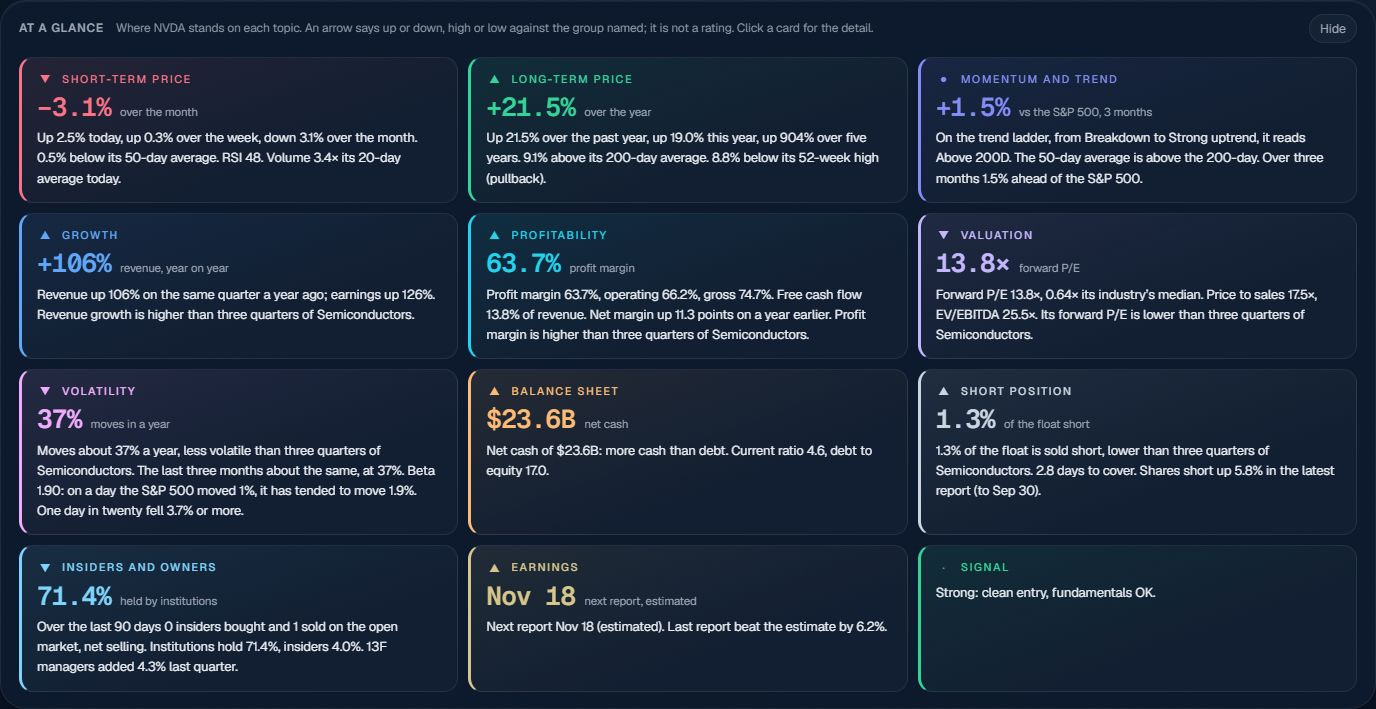
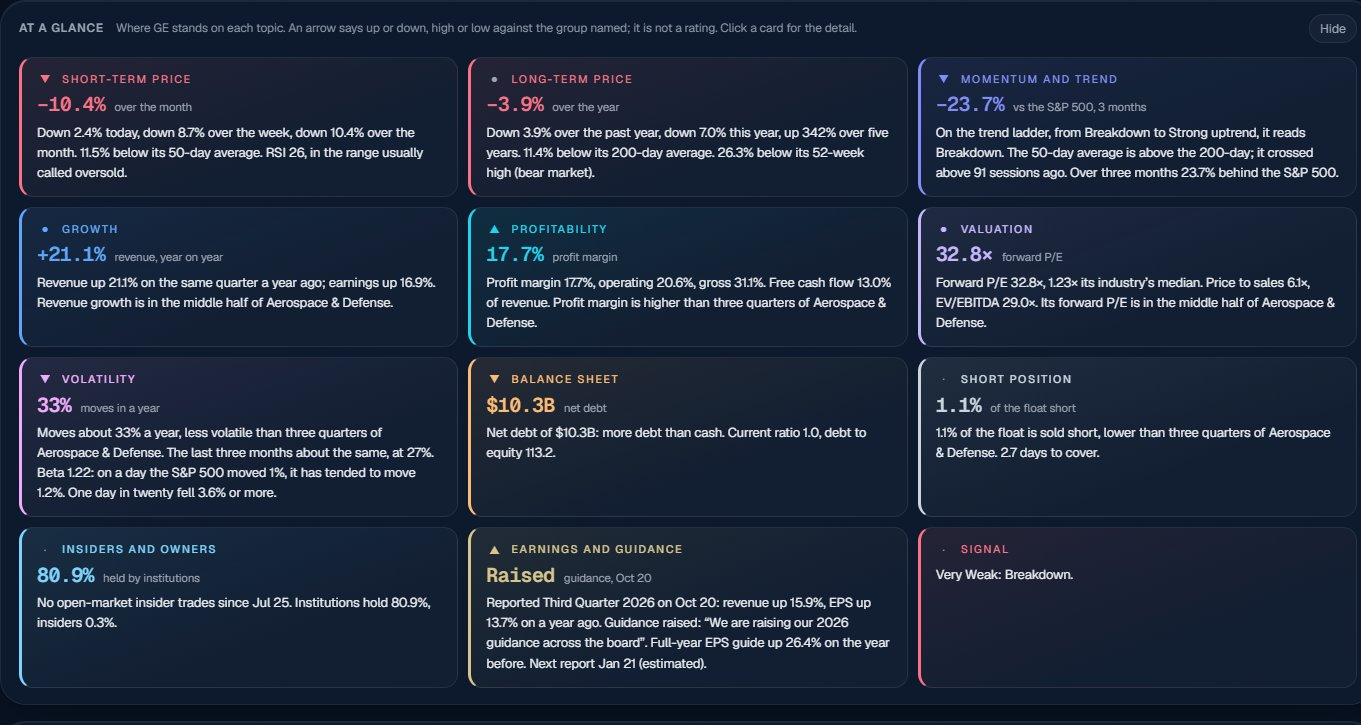
Earnings and guidance on the At a glance promo card and the home page picture

Changed region(s): [[0.0, 0.031, 0.9875, 0.9929], [0.0, 0.0931, 0.3086, 0.3103], [0.9566, 0.031, 0.9875, 0.0621]]

diff --git a/server.js b/server.js
@@ -12813,6 +12813,12 @@ app.get('/api/m/post', requireMember, route(async (req, res) => {
     const sym = String(srNeed.symbol || '').toUpperCase();
     try { srd = /^[A-Z0-9.-]{1,15}$/.test(sym) ? { symbol: sym, releases: (await store.readEarningsReleases(sym, 2)).filter((r) => r.isResults).map((r) => Releases.forReader(r, [])) } : { releases: [] }; } catch { srd = { releases: [] }; }
   }
+  // The At a glance card: its stock's newest release for Earnings and guidance.
+  let glRel = null;
+  if (post.tpl === 'glance') {
+    const gs = String((post.opts && post.opts.glcSym) || (stocks[0] && stocks[0].symbol) || '').toUpperCase();
+    try { const rr = /^[A-Z0-9.-]{1,15}$/.test(gs) ? (await store.readEarningsReleases(gs, 2)).filter((r) => r.isResults)[0] : null; if (rr) glRel = { symbol: gs, fields: globalThis.ReleaseView.fields(Releases.forReader(rr, [])) }; } catch { glRel = null; }
+  }
   // The Results reported card, likewise.
   let rptd = null;
   const rptNeed = Cards.reportedNeed(post.tpl, post.opts || {});
@@ -12845,7 +12851,7 @@ app.get('/api/m/post', requireMember, route(async (req, res) => {
       getReleaseColumn: () => rcol || { rows: {} },
       getRelease: () => srd || { releases: [] },
       // The At a glance card: the stock page's own cards, over the same rows.
-      getGlance: (s) => { try { const r = stocks.find((x) => x && x.symbol === s); return r ? Glance.build(r, stocks) : null; } catch (e) { return null; } },
+      getGlance: (s) => { try { const r = stocks.find((x) => x && x.symbol === s); return r ? Glance.build(glRel && glRel.symbol === s ? Object.assign({}, r, glRel.fields) : r, stocks) : null; } catch (e) { return null; } },
       getGroupLines: () => glines,
       getGroupMonths: () => gmonths,
       getDays: () => days,

diff --git a/private/promo.html b/private/promo.html
@@ -3359,7 +3359,13 @@
     function getGlance(symbol) {
       const row = stocks.find((x) => x && x.symbol === symbol);
       if (!row || typeof Glance === 'undefined') return null;
-      try { return Glance.build(row, stocks); } catch (e) { return null; }
+      // Earnings and guidance (2026-10-23): the newest release's figures on the
+      // row, as /api/stock does for the stock page. getRelease fetches once and
+      // redraws when it lands; until then the card has the old wording.
+      const rd = getRelease({ symbol });
+      const rel = rd && rd.releases && rd.releases[0];
+      const built = rel && window.ReleaseView ? Object.assign({}, row, window.ReleaseView.fields(rel)) : row;
+      try { return Glance.build(built, stocks); } catch (e) { return null; }
     }
     function paintGlanceChips() {
       const max = Cards.glanceMax(size.id);
@@ -3427,8 +3433,8 @@
       srPending[k] = true;
       fetch('/api/releases?symbol=' + encodeURIComponent(k), { cache: 'no-store' })
         .then((r) => (r.ok ? r.json() : { releases: [] }))
-        .then((d) => { srPending[k] = false; srCache[k] = d || { releases: [] }; if (tpl === 'stkresults') render(); })
-        .catch(() => { srPending[k] = false; srCache[k] = { releases: [] }; if (tpl === 'stkresults') render(); });
+        .then((d) => { srPending[k] = false; srCache[k] = d || { releases: [] }; if (tpl === 'stkresults' || tpl === 'glance') render(); })
+        .catch(() => { srPending[k] = false; srCache[k] = { releases: [] }; if (tpl === 'stkresults' || tpl === 'glance') render(); });
       return null;
     }
     function getReported(need) {

diff --git a/private/landing.html b/private/landing.html
@@ -369,7 +369,7 @@
           <p>At a glance cards up top, then the chart, the filings, earnings, insiders, institutions, funds, short interest, options and news.</p>
           <ul><li>Each topic in a sentence, with its headline number</li><li>Compared against the company's own industry</li><li>Article tone: an AI reading of each news article, for the S&amp;P 500</li></ul>
         </div>
-        <div class="shot"><img src="/img/landing/glance-navy.jpg" width="1376" height="709" alt="The At a glance section of NVIDIA's stock page" loading="lazy" /></div>
+        <div class="shot"><img src="/img/landing/glance-navy.jpg" width="1361" height="725" alt="The At a glance section of GE's stock page" loading="lazy" /></div>
       </div>
 
       <div class="pane" id="p-pivot">
@@ -472,8 +472,8 @@
           </ul>
         </div>
       </div>
-      <div class="shot glshot"><img src="/img/landing/glance-navy.jpg" width="1376" height="709" alt="The At a glance section of NVIDIA's stock page: twelve topics, each with its headline figure" loading="lazy" /></div>
-      <p class="note">The top of NVIDIA's page after the close of October 21, 2026.</p>
+      <div class="shot glshot"><img src="/img/landing/glance-navy.jpg" width="1361" height="725" alt="The At a glance section of GE's stock page: twelve topics, each with its headline figure, Earnings and guidance among them" loading="lazy" /></div>
+      <p class="note">The top of GE's page on October 23, 2026, with Earnings and guidance from its results release.</p>
     </div>
   </section>
 

diff --git a/private/cards.js b/private/cards.js
@@ -12767,7 +12767,7 @@
   // rule that fired, in its own colour.
   const GLC_TOPICS = [['short', 'Short-term price'], ['long', 'Long-term price'], ['trend', 'Momentum and trend'], ['growth', 'Growth'],
     ['profit', 'Profitability'], ['value', 'Valuation'], ['vol', 'Volatility'], ['balance', 'Balance sheet'],
-    ['shortpos', 'Short position'], ['owners', 'Insiders and owners'], ['earn', 'Earnings'], ['signal', 'Signal']];
+    ['shortpos', 'Short position'], ['owners', 'Insiders and owners'], ['earn', 'Earnings and guidance'], ['signal', 'Signal']];
   const GLC_DEFAULT = ['long', 'growth', 'profit', 'value', 'balance', 'earn'];
   // Measured with every topic at its longest wording.
   const GLC_MAX = { square: 6, portrait: 8, story: 10 };

diff --git a/docs/context/earnings-releases.md b/docs/context/earnings-releases.md
@@ -264,3 +264,4 @@ The owner, on the Results summary: "One thing we are not showing on this is the 
 
 ### At a glance: Earnings and guidance (2026-10-23)
 The owner: "At a glance needs to show the result release section, call it earning and guidance instead of the existing earning". `/api/stock` reads the newest results release (one indexed read) and hands `Glance.build` a copy of the row with its `ReleaseView.fields` (the er- fields); the stock row itself is untouched. The card (`glance.js`, id `earn`, title "Earnings and guidance") then says when it reported with revenue and EPS on a year ago, the guidance change the company states in its words (else "guidance given, no change stated"), the full-year EPS guide on the year before or next quarter's revenue guide on this quarter, and the next date only when it is after that report (the provider's estimate can be a date already past: Lockheed Martin's read Oct 20 after its Oct 22 report). Headline: the stated change ("Raised", "guidance, Oct 22"), else the report day. Arrow: raised up, lowered or withdrawn down, reaffirmed level, none otherwise. The card opens Results releases (`#rels`). Without a release (and on the At a glance promo card, which has none), the old next-date and surprise wording. `glance-test.js` 38 checks (9 new; the past-date guard proved by reverting); the route checked end to end.
+- **On the At a glance promo card and the landing page** (2026-10-23, the owner: "apply these at a glance change to promo and the home page"): the studio's `getGlance` adds the stock's newest release (the Quarterly results card's `getRelease` fetch and cache, redrawing on arrival) and the phone route reads it for the post's `glcSym`, so the card's Earnings and guidance topic matches the stock page; the topic chooser calls it "Earnings and guidance". The card's headline type is left at its social size. The landing page's At a glance picture (`glance-navy.jpg`) was retaken from GE's page in Navy over a read-only copy of production's snapshot (1361x725), Earnings and guidance reading Raised; alt text and caption say GE, October 23.
